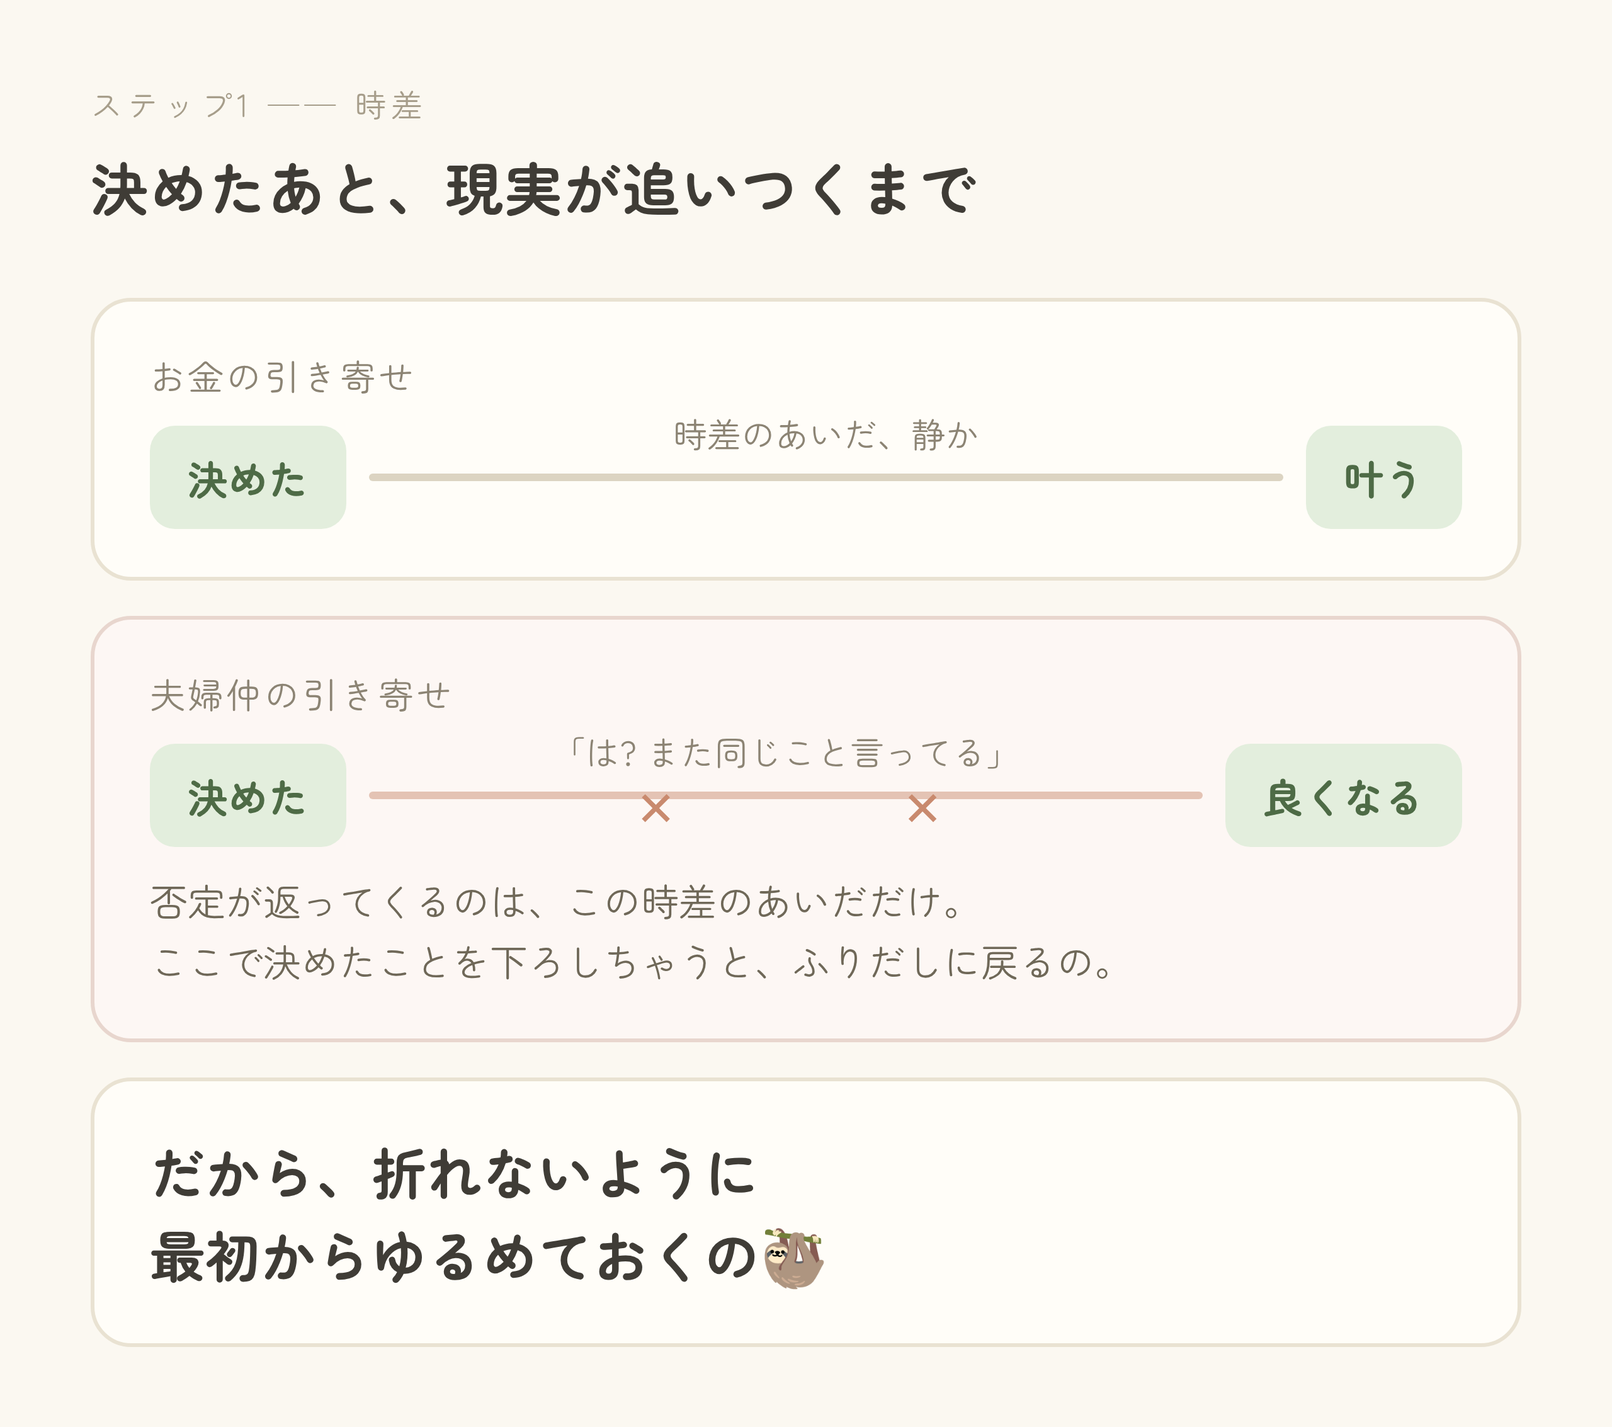
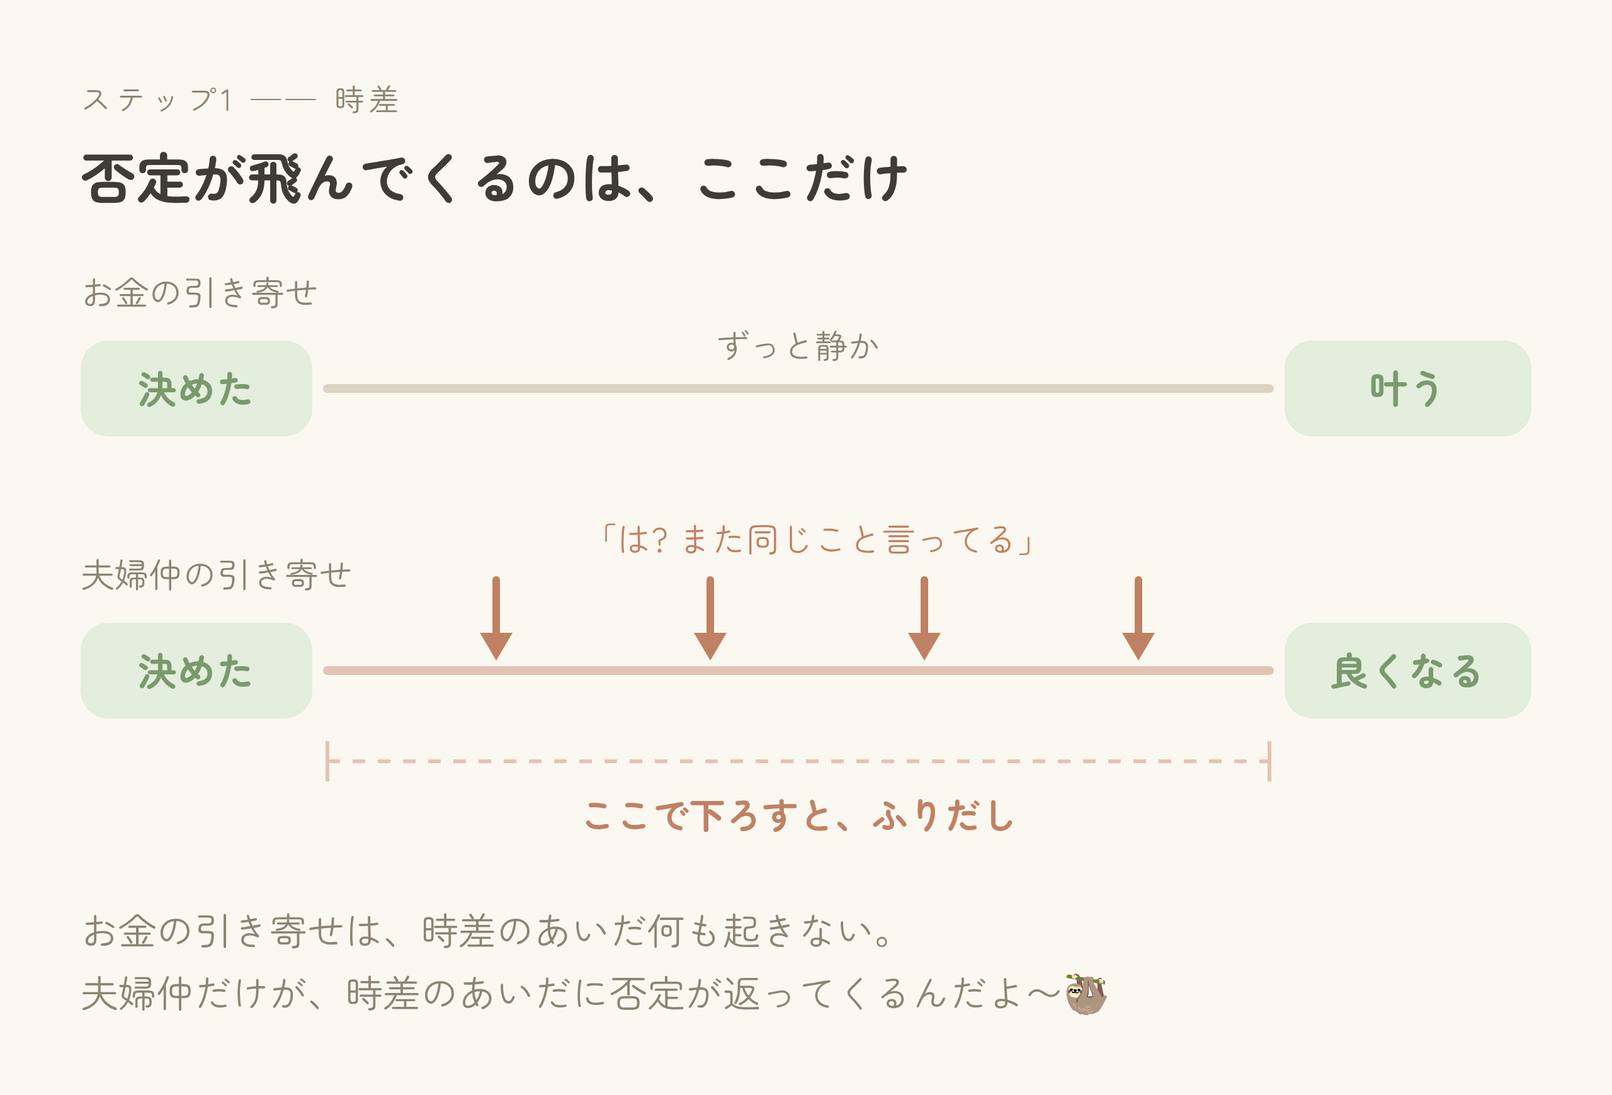
解説図4枚を作り直し(装飾した文章 → 実際の図)
初版は4枚中3枚が、角丸の箱に文章を入れて縦に積んだだけで、図として機能して
いなかった(fig4に至っては「左右対比」と説明しながら縦積みだった)。
インラインSVGで作り直し、空間そのものに意味を持たせた。

- fig1 時差: 横軸＝時間。否定の矢印が降ってくる位置で「時差のあいだ」を示す
- fig2 手放す: ひとつの塊が2つに分岐し、条件側だけ色が薄くなる
- fig3 証拠のハードル: ハードルの高低差そのものが主張。文字はラベルのみ
- fig4 だったら: 円の外にいるか中にいるかの距離で「主語の違い」を示す

- README に「図の作り方のルール」を追記
  判定基準: 文字を全部消しても構造が残るか。残らなければ図ではない
- fig3のキャプションから💤を削除(青が配色から浮くため)

Claude-Session: https://claude.ai/code/session_015xxkUxjc7HKCLGLGJKUsKr

diff --git a/images/gen_figures.js b/images/gen_figures.js
@@ -1,5 +1,6 @@
 // 有料note用 解説図ジェネレータ
-// 使い方: node images/gen_figures.js   → images/out/fig_*.png
+// 使い方: TRIM_PY=<python> node images/gen_figures.js  → images/out/fig*.png
+// 方針: 図の「位置・高さ・距離」そのものに意味を持たせる。文字は最小限。
 const { execSync } = require('child_process');
 const fs = require('fs');
 const path = require('path');
@@ -7,141 +8,146 @@ const OUT = path.join(__dirname, 'out');
 const FONTS = path.join(__dirname, 'fonts');
 fs.mkdirSync(OUT, { recursive: true });
 
+const C = { cream:'#FBF8F1', ink:'#3F3C36', mute:'#8C8474',
+            g:'#7A9A6E', gBg:'#E3EEDD', gLine:'#C6DABC',
+            r:'#C08163', rBg:'#F3E2DA', rLine:'#E4C3B4', line:'#DCD4C2' };
+
 const BASE = `
   @font-face { font-family:"ZenMaru"; font-weight:400;
     src:url("file://${FONTS}/ZenMaruGothic-Regular.ttf") format("truetype"); }
   @font-face { font-family:"ZenMaru"; font-weight:700;
     src:url("file://${FONTS}/ZenMaruGothic-Bold.ttf") format("truetype"); }
   * { margin:0; padding:0; box-sizing:border-box; }
-  html,body { width:1280px; overflow:hidden; }
-  body { font-family:"ZenMaru",sans-serif; background:#FBF8F1; color:#3F3C36;
-         padding:64px 72px; }
-  h1 { font-size:46px; font-weight:700; margin-bottom:56px; letter-spacing:.02em; }
-  h1 .sub { display:block; font-size:25px; color:#A79E8B; font-weight:400;
-            letter-spacing:.16em; margin-bottom:14px; }
-  .row { background:#FFFDF8; border:3px solid #E9E2D2; border-radius:32px;
-         padding:38px 44px; margin-bottom:28px; }
-  .row.ok { border-color:#C6DABC; background:#F6FAF4; }
-  .row.ng { border-color:#E8D6CE; background:#FDF7F4; }
-  .lead { font-size:28px; color:#8C8474; margin-bottom:20px; letter-spacing:.08em; }
-  .big { font-size:44px; font-weight:700; line-height:1.5; }
-  .note { font-size:30px; color:#6F6858; margin-top:18px; line-height:1.6; }
-  .tag { display:inline-block; padding:10px 26px; border-radius:999px; font-size:26px;
-         font-weight:700; margin-bottom:18px; }
-  .tag.g { background:#E3EEDD; color:#5A7751; }
-  .tag.r { background:#F3E2DA; color:#9A6B57; }
-  .tag.n { background:#EDE7DA; color:#8A8271; }
+  html,body { width:1280px; height:auto; overflow:hidden; }
+  body { font-family:"ZenMaru",sans-serif; background:${C.cream}; color:${C.ink};
+         padding:60px 64px 48px; }
+  h1 { font-size:44px; font-weight:700; margin-bottom:10px; }
+  .sub { font-size:24px; color:${C.mute}; letter-spacing:.16em; margin-bottom:12px; }
+  .cap { font-size:30px; color:${C.mute}; line-height:1.65; margin-top:34px; }
+  svg { display:block; width:100%; height:auto; }
+  .t  { font-family:"ZenMaru",sans-serif; }
 `;
 
 const FIGS = [
-{ file:'fig1_時差', title:'決めたあと、現実が追いつくまで', sub:'ステップ1 ── 時差',
-  body:`
-  <div class="row">
-    <div class="lead">お金の引き寄せ</div>
-    <div class="tl">
-      <span class="pt g">決めた</span>
-      <span class="line"><span class="lbl">時差のあいだ、静か</span></span>
-      <span class="pt g">叶う</span>
-    </div>
-  </div>
-  <div class="row ng">
-    <div class="lead">夫婦仲の引き寄せ</div>
-    <div class="tl">
-      <span class="pt g">決めた</span>
-      <span class="line ng"><span class="lbl">「は? また同じこと言ってる」</span>
-        <span class="x">✕</span><span class="x x2">✕</span></span>
-      <span class="pt g">良くなる</span>
-    </div>
-    <div class="note">否定が返ってくるのは、この時差のあいだだけ。<br>
-      ここで決めたことを下ろしちゃうと、ふりだしに戻るの。</div>
-  </div>
-  <div class="row">
-    <div class="big">だから、折れないように<br>最初からゆるめておくの🦥</div>
-  </div>`,
-  css:`
-   .tl { display:flex; align-items:center; gap:18px; }
-   .pt { flex:0 0 auto; padding:18px 30px; border-radius:20px; font-size:32px; font-weight:700; }
-   .pt.g { background:#E3EEDD; color:#4E6B46; }
-   .line { flex:1; height:6px; background:#DCD4C2; border-radius:999px; position:relative; }
-   .line.ng { background:#E4C3B4; }
-   .lbl { position:absolute; left:50%; transform:translateX(-50%); top:-52px;
-          white-space:nowrap; font-size:27px; color:#8C8474; }
-   .x { position:absolute; top:-17px; left:32%; font-size:38px; color:#C98A6E; }
-   .x2 { left:64%; }` },
 
-{ file:'fig2_手放す', title:'手放すのは「条件」だけ', sub:'ステップ5 ── 手放す',
-  body:`
-  <div class="row ok">
-    <span class="tag g">残していい</span>
-    <div class="big">「仲良くなりたい」</div>
-    <div class="note">望みのほう。これは握ってていいの。</div>
-  </div>
-  <div class="row ng">
-    <span class="tag r">これだけ外す</span>
-    <div class="big">「変わってくれなきゃ、<br>わたしは幸せになれない」</div>
-    <div class="note">条件のほう。自分の幸せを、人に預けちゃってる状態だよ。</div>
-  </div>
-  <div class="row">
-    <div class="big">手放す ＝ 諦める、じゃないよ🌿</div>
-    <div class="note">望みは残して、条件だけ外す。これが「手放す」の意味。</div>
-  </div>` },
+// ── fig1 時差 : 横軸＝時間。否定が飛んでくる位置を示す ──────────────
+{ file:'fig1_時差', sub:'ステップ1 ── 時差', title:'否定が飛んでくるのは、ここだけ',
+  svg:`<svg viewBox="0 0 1152 470" xmlns="http://www.w3.org/2000/svg">
+  <text class="t" x="0" y="34" font-size="27" fill="${C.mute}">お金の引き寄せ</text>
+  <rect x="0" y="62" width="184" height="76" rx="22" fill="${C.gBg}"/>
+  <text class="t" x="92" y="112" font-size="31" font-weight="700" fill="${C.g}" text-anchor="middle">決めた</text>
+  <line x1="196" y1="100" x2="944" y2="100" stroke="${C.line}" stroke-width="7" stroke-linecap="round"/>
+  <text class="t" x="570" y="76" font-size="26" fill="${C.mute}" text-anchor="middle">ずっと静か</text>
+  <rect x="956" y="62" width="196" height="76" rx="22" fill="${C.gBg}"/>
+  <text class="t" x="1054" y="112" font-size="31" font-weight="700" fill="${C.g}" text-anchor="middle">叶う</text>
 
-{ file:'fig3_証拠のハードル', title:'探すものを、変えるだけ', sub:'ステップ3 ── 証拠のハードル',
-  body:`
-  <div class="row ng">
-    <span class="tag r">高すぎる</span>
-    <div class="big">「愛されてる証拠」</div>
-    <div class="note">「ありがとう」も言われてないんだから、そりゃ見つからないよ…💤</div>
-  </div>
-  <div class="row ok">
-    <span class="tag g">これでいい</span>
-    <div class="big">「わたしのほうを向いた瞬間」</div>
-    <div class="note">一瞬でいいの。愛じゃなくていい。こっちに意識が向いた、それだけ。</div>
-  </div>
-  <div class="row">
-    <span class="tag n">たとえば</span>
-    <ul class="ex">
-      <li>「ごはんいる?」って聞いてきた</li>
-      <li>お風呂、先に入れてくれてた</li>
-      <li>買い物のついでに、なんか買ってきた</li>
-      <li>自分の話を、こっちにしてきた</li>
-    </ul>
-    <div class="note">どれも、やらなくて困らないことでしょ。<br>
-      やったってことは、一瞬でもあなたを考えたってことだよ🦥</div>
-  </div>`,
-  css:`.ex { list-style:none; } .ex li { font-size:33px; line-height:1.85; padding-left:38px;
-        position:relative; } .ex li:before { content:"・"; position:absolute; left:6px; color:#9EB894; }` },
+  <text class="t" x="0" y="258" font-size="27" fill="${C.mute}">夫婦仲の引き寄せ</text>
+  <rect x="0" y="286" width="184" height="76" rx="22" fill="${C.gBg}"/>
+  <text class="t" x="92" y="336" font-size="31" font-weight="700" fill="${C.g}" text-anchor="middle">決めた</text>
+  <line x1="196" y1="324" x2="944" y2="324" stroke="${C.rLine}" stroke-width="7" stroke-linecap="round"/>
+  <rect x="956" y="286" width="196" height="76" rx="22" fill="${C.gBg}"/>
+  <text class="t" x="1054" y="336" font-size="31" font-weight="700" fill="${C.g}" text-anchor="middle">良くなる</text>
+  ${[330,500,670,840].map(x=>`
+  <line x1="${x}" y1="252" x2="${x}" y2="306" stroke="${C.r}" stroke-width="6" stroke-linecap="round"/>
+  <path d="M${x-13} 294 L${x} 316 L${x+13} 294 Z" fill="${C.r}"/>`).join('')}
+  <text class="t" x="585" y="230" font-size="27" fill="${C.r}" text-anchor="middle">「は? また同じこと言ってる」</text>
+  <path d="M196 396 L944 396" stroke="${C.rLine}" stroke-width="3" stroke-dasharray="10 10"/>
+  <path d="M196 380 L196 412 M944 380 L944 412" stroke="${C.rLine}" stroke-width="3"/>
+  <text class="t" x="570" y="450" font-size="29" font-weight="700" fill="${C.r}" text-anchor="middle">ここで下ろすと、ふりだし</text>
+  </svg>`,
+  cap:'お金の引き寄せは、時差のあいだ何も起きない。<br>夫婦仲だけが、時差のあいだに否定が返ってくるんだよ〜🦥' },
 
-{ file:'fig4_だったら', title:'願うのを、やめるだけ', sub:'ステップ2 ── だったらゲーム',
-  body:`
-  <div class="row ng">
-    <span class="tag r">まだ持ってない人の言葉</span>
-    <div class="big">「仲良くなれますように」</div>
-    <div class="note">願うほど「うちはまだ仲良くない」を毎回確認しちゃう。<br>
-      だから、やればやるほどしんどくなるの…💤</div>
-  </div>
-  <div class="row ok">
-    <span class="tag g">もう持ってる人の言葉</span>
-    <div class="big">「もう仲のいい夫婦だったら、<br>今どうしてる?」</div>
-    <div class="note">質問されると、脳が勝手に答えを探し始めるの。<br>
-      意志がいらないから、疲れないよ🦥</div>
-  </div>` },
+// ── fig2 手放す : ひとつの塊が2つに割れる ────────────────────────
+{ file:'fig2_手放す', sub:'ステップ5 ── 手放す', title:'ふたつを、分ける',
+  svg:`<svg viewBox="0 0 1152 560" xmlns="http://www.w3.org/2000/svg">
+  <rect x="216" y="0" width="720" height="122" rx="34" fill="#FFFDF8" stroke="${C.line}" stroke-width="3"/>
+  <text class="t" x="576" y="52" font-size="26" fill="${C.mute}" text-anchor="middle">ぜんぶ一緒に、握りしめてる</text>
+  <text class="t" x="576" y="96" font-size="31" font-weight="700" fill="${C.ink}" text-anchor="middle">仲良くなりたい ＋ 変わってくれなきゃ困る</text>
+
+  <path d="M576 130 L576 168" stroke="${C.line}" stroke-width="5" stroke-linecap="round"/>
+  <path d="M576 168 L300 168 M576 168 L852 168" stroke="${C.line}" stroke-width="5" stroke-linecap="round"/>
+  <path d="M300 168 L300 206 M852 168 L852 206" stroke="${C.line}" stroke-width="5" stroke-linecap="round"/>
+  <path d="M287 194 L300 218 L313 194 Z" fill="${C.line}"/>
+  <path d="M839 194 L852 218 L865 194 Z" fill="${C.line}"/>
+
+  <rect x="36" y="232" width="528" height="228" rx="34" fill="${C.gBg}" stroke="${C.gLine}" stroke-width="3"/>
+  <text class="t" x="300" y="300" font-size="27" fill="${C.g}" text-anchor="middle">望み</text>
+  <text class="t" x="300" y="360" font-size="38" font-weight="700" fill="${C.ink}" text-anchor="middle">「仲良くなりたい」</text>
+  <text class="t" x="300" y="420" font-size="30" font-weight="700" fill="${C.g}" text-anchor="middle">◯ 握ってていい</text>
+
+  <rect x="588" y="232" width="528" height="228" rx="34" fill="${C.rBg}" stroke="${C.rLine}" stroke-width="3" opacity=".75"/>
+  <text class="t" x="852" y="300" font-size="27" fill="${C.r}" text-anchor="middle">条件</text>
+  <text class="t" x="852" y="352" font-size="32" font-weight="700" fill="${C.ink}" text-anchor="middle" opacity=".7">「変わってくれなきゃ、</text>
+  <text class="t" x="852" y="396" font-size="32" font-weight="700" fill="${C.ink}" text-anchor="middle" opacity=".7">わたしは幸せになれない」</text>
+  <text class="t" x="852" y="444" font-size="30" font-weight="700" fill="${C.r}" text-anchor="middle">✕ これだけ外す</text>
+
+  <text class="t" x="576" y="530" font-size="31" font-weight="700" fill="${C.ink}" text-anchor="middle">手放す ＝ 諦める、じゃないよ🌿</text>
+  </svg>`,
+  cap:'望みは残していいの。外すのは「それがないと不幸」のほうだけ。' },
+
+// ── fig3 証拠のハードル : 高さそのものが意味 ──────────────────────
+{ file:'fig3_証拠のハードル', sub:'ステップ3 ── 証拠のハードル', title:'ハードルを、下げるだけ',
+  svg:`<svg viewBox="0 0 1152 470" xmlns="http://www.w3.org/2000/svg">
+  <line x1="0" y1="390" x2="1152" y2="390" stroke="${C.line}" stroke-width="6" stroke-linecap="round"/>
+
+  <line x1="330" y1="390" x2="330" y2="96" stroke="${C.rLine}" stroke-width="9" stroke-linecap="round"/>
+  <line x1="470" y1="390" x2="470" y2="96" stroke="${C.rLine}" stroke-width="9" stroke-linecap="round"/>
+  <rect x="306" y="80" width="188" height="24" rx="12" fill="${C.r}"/>
+  <text class="t" x="400" y="52" font-size="31" font-weight="700" fill="${C.r}" text-anchor="middle">「愛されてる証拠」</text>
+  <text class="t" x="400" y="440" font-size="28" fill="${C.r}" text-anchor="middle">✕ 高すぎて、見つからない</text>
+
+  <line x1="790" y1="390" x2="790" y2="300" stroke="${C.gLine}" stroke-width="9" stroke-linecap="round"/>
+  <line x1="930" y1="390" x2="930" y2="300" stroke="${C.gLine}" stroke-width="9" stroke-linecap="round"/>
+  <rect x="766" y="284" width="188" height="24" rx="12" fill="${C.g}"/>
+  <text class="t" x="860" y="230" font-size="31" font-weight="700" fill="${C.g}" text-anchor="middle">「わたしのほうを</text>
+  <text class="t" x="860" y="268" font-size="31" font-weight="700" fill="${C.g}" text-anchor="middle">向いた瞬間」</text>
+  <text class="t" x="860" y="440" font-size="28" fill="${C.g}" text-anchor="middle">◯ 毎日どこかにある</text>
+
+  <text x="84" y="382" font-size="62">🦥</text>
+  <path d="M176 360 L246 360" stroke="${C.mute}" stroke-width="5" stroke-linecap="round"/>
+  <path d="M232 348 L252 360 L232 372 Z" fill="${C.mute}"/>
+  </svg>`,
+  cap:'「ありがとう」も言われてないのに、愛されてる証拠は、そりゃ探せないよ〜<br>一瞬こっちを向いた、それだけで証拠にしちゃお🦥' },
+
+// ── fig4 だったら : ゴールとの「距離」が意味 ──────────────────────
+{ file:'fig4_だったら', sub:'ステップ2 ── だったらゲーム', title:'外から願うか、中から見るか',
+  svg:`<svg viewBox="0 0 1152 530" xmlns="http://www.w3.org/2000/svg">
+  <text class="t" x="0" y="30" font-size="27" fill="${C.r}">いままで</text>
+  <circle cx="820" cy="150" r="118" fill="none" stroke="${C.rLine}" stroke-width="5" stroke-dasharray="14 12"/>
+  <text class="t" x="820" y="140" font-size="27" fill="${C.r}" text-anchor="middle">仲のいい</text>
+  <text class="t" x="820" y="176" font-size="27" fill="${C.r}" text-anchor="middle">夫婦</text>
+  <circle cx="150" cy="150" r="34" fill="${C.rBg}" stroke="${C.rLine}" stroke-width="4"/>
+  <text class="t" x="150" y="160" font-size="25" fill="${C.r}" text-anchor="middle">私</text>
+  <path d="M200 150 L672 150" stroke="${C.rLine}" stroke-width="5" stroke-dasharray="14 12"/>
+  <path d="M658 136 L690 150 L658 164 Z" fill="${C.rLine}"/>
+  <text class="t" x="350" y="122" font-size="31" font-weight="700" fill="${C.ink}" text-anchor="middle">「仲良くなれますように」</text>
+  <text class="t" x="350" y="212" font-size="27" fill="${C.r}" text-anchor="middle">外にいるから、距離が縮まらない</text>
+
+  <line x1="0" y1="282" x2="1152" y2="282" stroke="${C.line}" stroke-width="3" stroke-dasharray="10 10"/>
+
+  <text class="t" x="0" y="344" font-size="27" fill="${C.g}">これから</text>
+  <circle cx="820" cy="430" r="118" fill="${C.gBg}" stroke="${C.gLine}" stroke-width="5"/>
+  <text class="t" x="820" y="392" font-size="27" fill="${C.g}" text-anchor="middle">仲のいい夫婦</text>
+  <circle cx="820" cy="452" r="34" fill="#FFFDF8" stroke="${C.g}" stroke-width="4"/>
+  <text class="t" x="820" y="462" font-size="25" fill="${C.g}" text-anchor="middle">私</text>
+  <text class="t" x="400" y="416" font-size="31" font-weight="700" fill="${C.ink}" text-anchor="middle">「もう仲のいい夫婦だったら、</text>
+  <text class="t" x="400" y="458" font-size="31" font-weight="700" fill="${C.ink}" text-anchor="middle">今どうしてる?」</text>
+  <text class="t" x="400" y="510" font-size="27" fill="${C.g}" text-anchor="middle">もう中にいるから、距離がない</text>
+  </svg>`,
+  cap:'「なれますように」は、まだ持ってない人の言葉。<br>「だったら」は、もう持ってる人の言葉なんだよ〜🦥' },
 ];
 
 const CHROME = '/opt/pw-browsers/chromium-1194/chrome-linux/chrome';
 for (const f of FIGS) {
-  const doc = `<!doctype html><html><head><meta charset="utf-8"><style>${BASE}${f.css||''}
-    html,body{height:auto;min-height:0}</style></head><body>
-    <h1><span class="sub">${f.sub}</span>${f.title}</h1>${f.body}
-    <div style="height:1px"></div></body></html>`;
+  const doc = `<!doctype html><html><head><meta charset="utf-8"><style>${BASE}</style></head>
+  <body><div class="sub">${f.sub}</div><h1>${f.title}</h1>
+  <div style="height:28px"></div>${f.svg}<div class="cap">${f.cap}</div></body></html>`;
   const tmp = `/tmp/fig_${f.file}.html`;
   fs.writeFileSync(tmp, doc);
-  // 余裕をもって高く描画 → 下の余白は trim.py が自動で切る
   execSync(`"${CHROME}" --headless --no-sandbox --disable-gpu --hide-scrollbars ` +
     `--force-device-scale-factor=2 --window-size=1280,2600 --virtual-time-budget=3000 ` +
     `--screenshot="${OUT}/${f.file}.png" "file://${tmp}" 2>/dev/null`);
-  console.log('✓', f.file + '.png (trim前)');
+  console.log('✓', f.file);
 }
-// 下端の余白を自動で切り落とす
 execSync(`${process.env.TRIM_PY || 'python3'} ${path.join(__dirname,'trim.py')} ${OUT}`,
   { stdio:'inherit' });

diff --git a/images/README.md b/images/README.md
@@ -71,9 +71,28 @@ node images/gen_cards.js
 
 **図は多いほど良いものではない。** 4枚を超えると、どれが重要なのか分からなくなる。
 
+## 図の作り方のルール(重要)
+
+**「位置・高さ・距離」そのものに意味を持たせる。** これを満たさないものは、
+図ではなく「装飾した文章」なので作らない。
+
+初版は4枚中3枚が、角丸の箱に文を入れただけの縦積みだった。図に見えるだけで、
+文章を読むのと手間が変わっていなかった。作り直して、それぞれ次の構造にした。
+
+| 図 | 空間が表しているもの |
+|---|---|
+| fig1 時差 | **横軸＝時間。** 決めた→良くなる の途中に矢印が降ってくる位置が「時差のあいだ」 |
+| fig2 手放す | **分岐。** ひとつの塊が2つに割れて、片方だけ色が薄くなる |
+| fig3 証拠のハードル | **高さ。** ハードルの高低差そのものが主張 |
+| fig4 だったら | **距離。** 円の外にいるか、中にいるか |
+
+チェック方法: **図から文字を全部消しても、構造が残るか。**
+残らなければ、それは図ではない。
+
 ## 仕様(解説図)
 
 - 幅2560px(2倍解像度)、高さは内容に応じて可変
+- 中身はインラインSVG。`images/gen_figures.js` の `svg:` を編集する
 - `images/trim.py` が下端の余白を自動で切る(Pillowを使用)
-- 配色・書体は章扉と共通。赤系 `#F3E2DA`/`#9A6B57` は「ここは外すもの/高すぎるもの」の
-  合図としてのみ使う
+- 配色・書体は章扉と共通。赤系 `#C08163`/`#F3E2DA` は
+  **「外すもの・高すぎるもの・いままでのやり方」の合図としてのみ**使う
